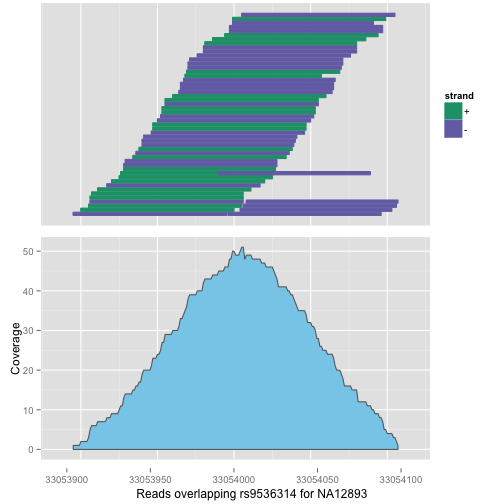
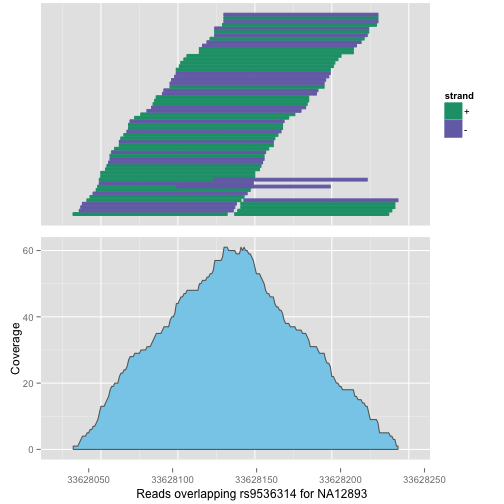
Bug fix for genomic coordinates in vignette.
Incorrectly used coordinates for rs9536314 from the wrong reference.

diff --git a/inst/doc/PlottingAlignments.md b/inst/doc/PlottingAlignments.md
@@ -17,14 +17,14 @@
 Plotting Alignments
 -------------------
 
-Let's take a look at the reads that overlap rs9536314 for sample NA12893 within the [Illumina Platinum Genomes](https://cloud.google.com/genomics/data/platinum-genomes) dataset.
+Let's take a look at the reads that overlap [rs9536314](http://www.ncbi.nlm.nih.gov/SNP/snp_ref.cgi?rs=9536314) for sample NA12893 within the [Illumina Platinum Genomes](https://cloud.google.com/genomics/data/platinum-genomes) dataset.  This SNP resides on chromosome 13 at position 33628137 in 0-based coordinates.
 
 ```r
 require(GoogleGenomics)
 reads <- getReads(readGroupSetId="CMvnhpKTFhDyy__v0qfPpkw",
                   chromosome="chr13",
-                  start=33053994,
-                  end=33054009)
+                  start=33628130,
+                  end=33628145)
 ```
 
 ```
@@ -80,8 +80,8 @@ sessionInfo()
 ```
 
 ```
-## R version 3.1.2 (2014-10-31)
-## Platform: x86_64-apple-darwin13.4.0 (64-bit)
+## R version 3.1.1 (2014-07-10)
+## Platform: x86_64-apple-darwin13.1.0 (64-bit)
 ## 
 ## locale:
 ## [1] en_US.UTF-8/en_US.UTF-8/en_US.UTF-8/C/en_US.UTF-8/en_US.UTF-8
@@ -91,47 +91,35 @@ sessionInfo()
 ## [8] methods   base     
 ## 
 ## other attached packages:
-##  [1] BSgenome.Hsapiens.UCSC.hg19_1.3.99     
-##  [2] BSgenome_1.34.0                        
-##  [3] rtracklayer_1.26.1                     
-##  [4] TxDb.Hsapiens.UCSC.hg19.knownGene_3.0.0
-##  [5] GenomicFeatures_1.18.2                 
-##  [6] AnnotationDbi_1.28.1                   
-##  [7] Biobase_2.26.0                         
-##  [8] ggbio_1.14.0                           
-##  [9] ggplot2_1.0.0                          
-## [10] knitr_1.7                              
-## [11] GoogleGenomics_0.1.2                   
-## [12] VariantAnnotation_1.12.3               
-## [13] GenomicAlignments_1.2.1                
-## [14] Rsamtools_1.18.1                       
-## [15] Biostrings_2.34.0                      
-## [16] XVector_0.6.0                          
-## [17] GenomicRanges_1.18.1                   
-## [18] GenomeInfoDb_1.2.2                     
-## [19] IRanges_2.0.0                          
-## [20] S4Vectors_0.4.0                        
-## [21] BiocGenerics_0.12.0                    
-## [22] BiocInstaller_1.16.1                   
+##  [1] ggbio_1.14.0             ggplot2_1.0.0           
+##  [3] knitr_1.7                GoogleGenomics_0.1.2    
+##  [5] VariantAnnotation_1.12.1 GenomicAlignments_1.2.0 
+##  [7] Rsamtools_1.18.0         Biostrings_2.34.0       
+##  [9] XVector_0.6.0            GenomicRanges_1.18.1    
+## [11] GenomeInfoDb_1.2.0       IRanges_2.0.0           
+## [13] S4Vectors_0.4.0          BiocGenerics_0.12.0     
 ## 
 ## loaded via a namespace (and not attached):
-##  [1] acepack_1.3-3.3     base64enc_0.1-2     BatchJobs_1.5      
-##  [4] BBmisc_1.8          BiocParallel_1.0.0  biomaRt_2.22.0     
-##  [7] biovizBase_1.14.0   bitops_1.0-6        brew_1.0-6         
-## [10] checkmate_1.5.0     cluster_1.15.3      codetools_0.2-9    
-## [13] colorspace_1.2-4    DBI_0.3.1           dichromat_2.0-0    
-## [16] digest_0.6.4        evaluate_0.5.5      fail_1.2           
-## [19] foreach_1.4.2       foreign_0.8-61      formatR_1.0        
-## [22] Formula_1.1-2       GGally_0.4.8        graph_1.44.0       
-## [25] grid_3.1.2          gridExtra_0.9.1     gtable_0.1.2       
-## [28] Hmisc_3.14-5        httr_0.5            iterators_1.0.7    
-## [31] jsonlite_0.9.13     labeling_0.3        lattice_0.20-29    
-## [34] latticeExtra_0.6-26 MASS_7.3-35         munsell_0.4.2      
-## [37] nnet_7.3-8          OrganismDbi_1.8.0   plyr_1.8.1         
-## [40] proto_0.3-10        RBGL_1.42.0         RColorBrewer_1.0-5 
-## [43] Rcpp_0.11.3         RCurl_1.95-4.3      reshape_0.8.5      
-## [46] reshape2_1.4        rjson_0.2.15        rpart_4.1-8        
-## [49] RSQLite_1.0.0       scales_0.2.4        sendmailR_1.2-1    
-## [52] splines_3.1.2       stringr_0.6.2       survival_2.37-7    
-## [55] tools_3.1.2         XML_3.98-1.1        zlibbioc_1.12.0
+##  [1] acepack_1.3-3.3        AnnotationDbi_1.28.0   base64enc_0.1-2       
+##  [4] BatchJobs_1.4          BBmisc_1.7             Biobase_2.26.0        
+##  [7] BiocParallel_1.0.0     biomaRt_2.22.0         biovizBase_1.14.0     
+## [10] bitops_1.0-6           brew_1.0-6             BSgenome_1.34.0       
+## [13] checkmate_1.5.0        cluster_1.15.3         codetools_0.2-9       
+## [16] colorspace_1.2-4       DBI_0.3.1              dichromat_2.0-0       
+## [19] digest_0.6.4           evaluate_0.5.5         fail_1.2              
+## [22] foreach_1.4.2          foreign_0.8-61         formatR_1.0           
+## [25] Formula_1.1-2          GenomicFeatures_1.18.1 GGally_0.4.8          
+## [28] graph_1.44.0           grid_3.1.1             gridExtra_0.9.1       
+## [31] gtable_0.1.2           Hmisc_3.14-5           htmltools_0.2.6       
+## [34] httr_0.5               iterators_1.0.7        jsonlite_0.9.13       
+## [37] labeling_0.3           lattice_0.20-29        latticeExtra_0.6-26   
+## [40] MASS_7.3-35            munsell_0.4.2          nnet_7.3-8            
+## [43] OrganismDbi_1.8.0      plyr_1.8.1             proto_0.3-10          
+## [46] RBGL_1.42.0            RColorBrewer_1.0-5     Rcpp_0.11.3           
+## [49] RCurl_1.95-4.3         reshape_0.8.5          reshape2_1.4          
+## [52] rjson_0.2.14           rmarkdown_0.3.3        rpart_4.1-8           
+## [55] RSQLite_0.11.4         rtracklayer_1.26.1     scales_0.2.4          
+## [58] sendmailR_1.2-1        splines_3.1.1          stringr_0.6.2         
+## [61] survival_2.37-7        tools_3.1.1            XML_3.98-1.1          
+## [64] zlibbioc_1.12.0
 ```
